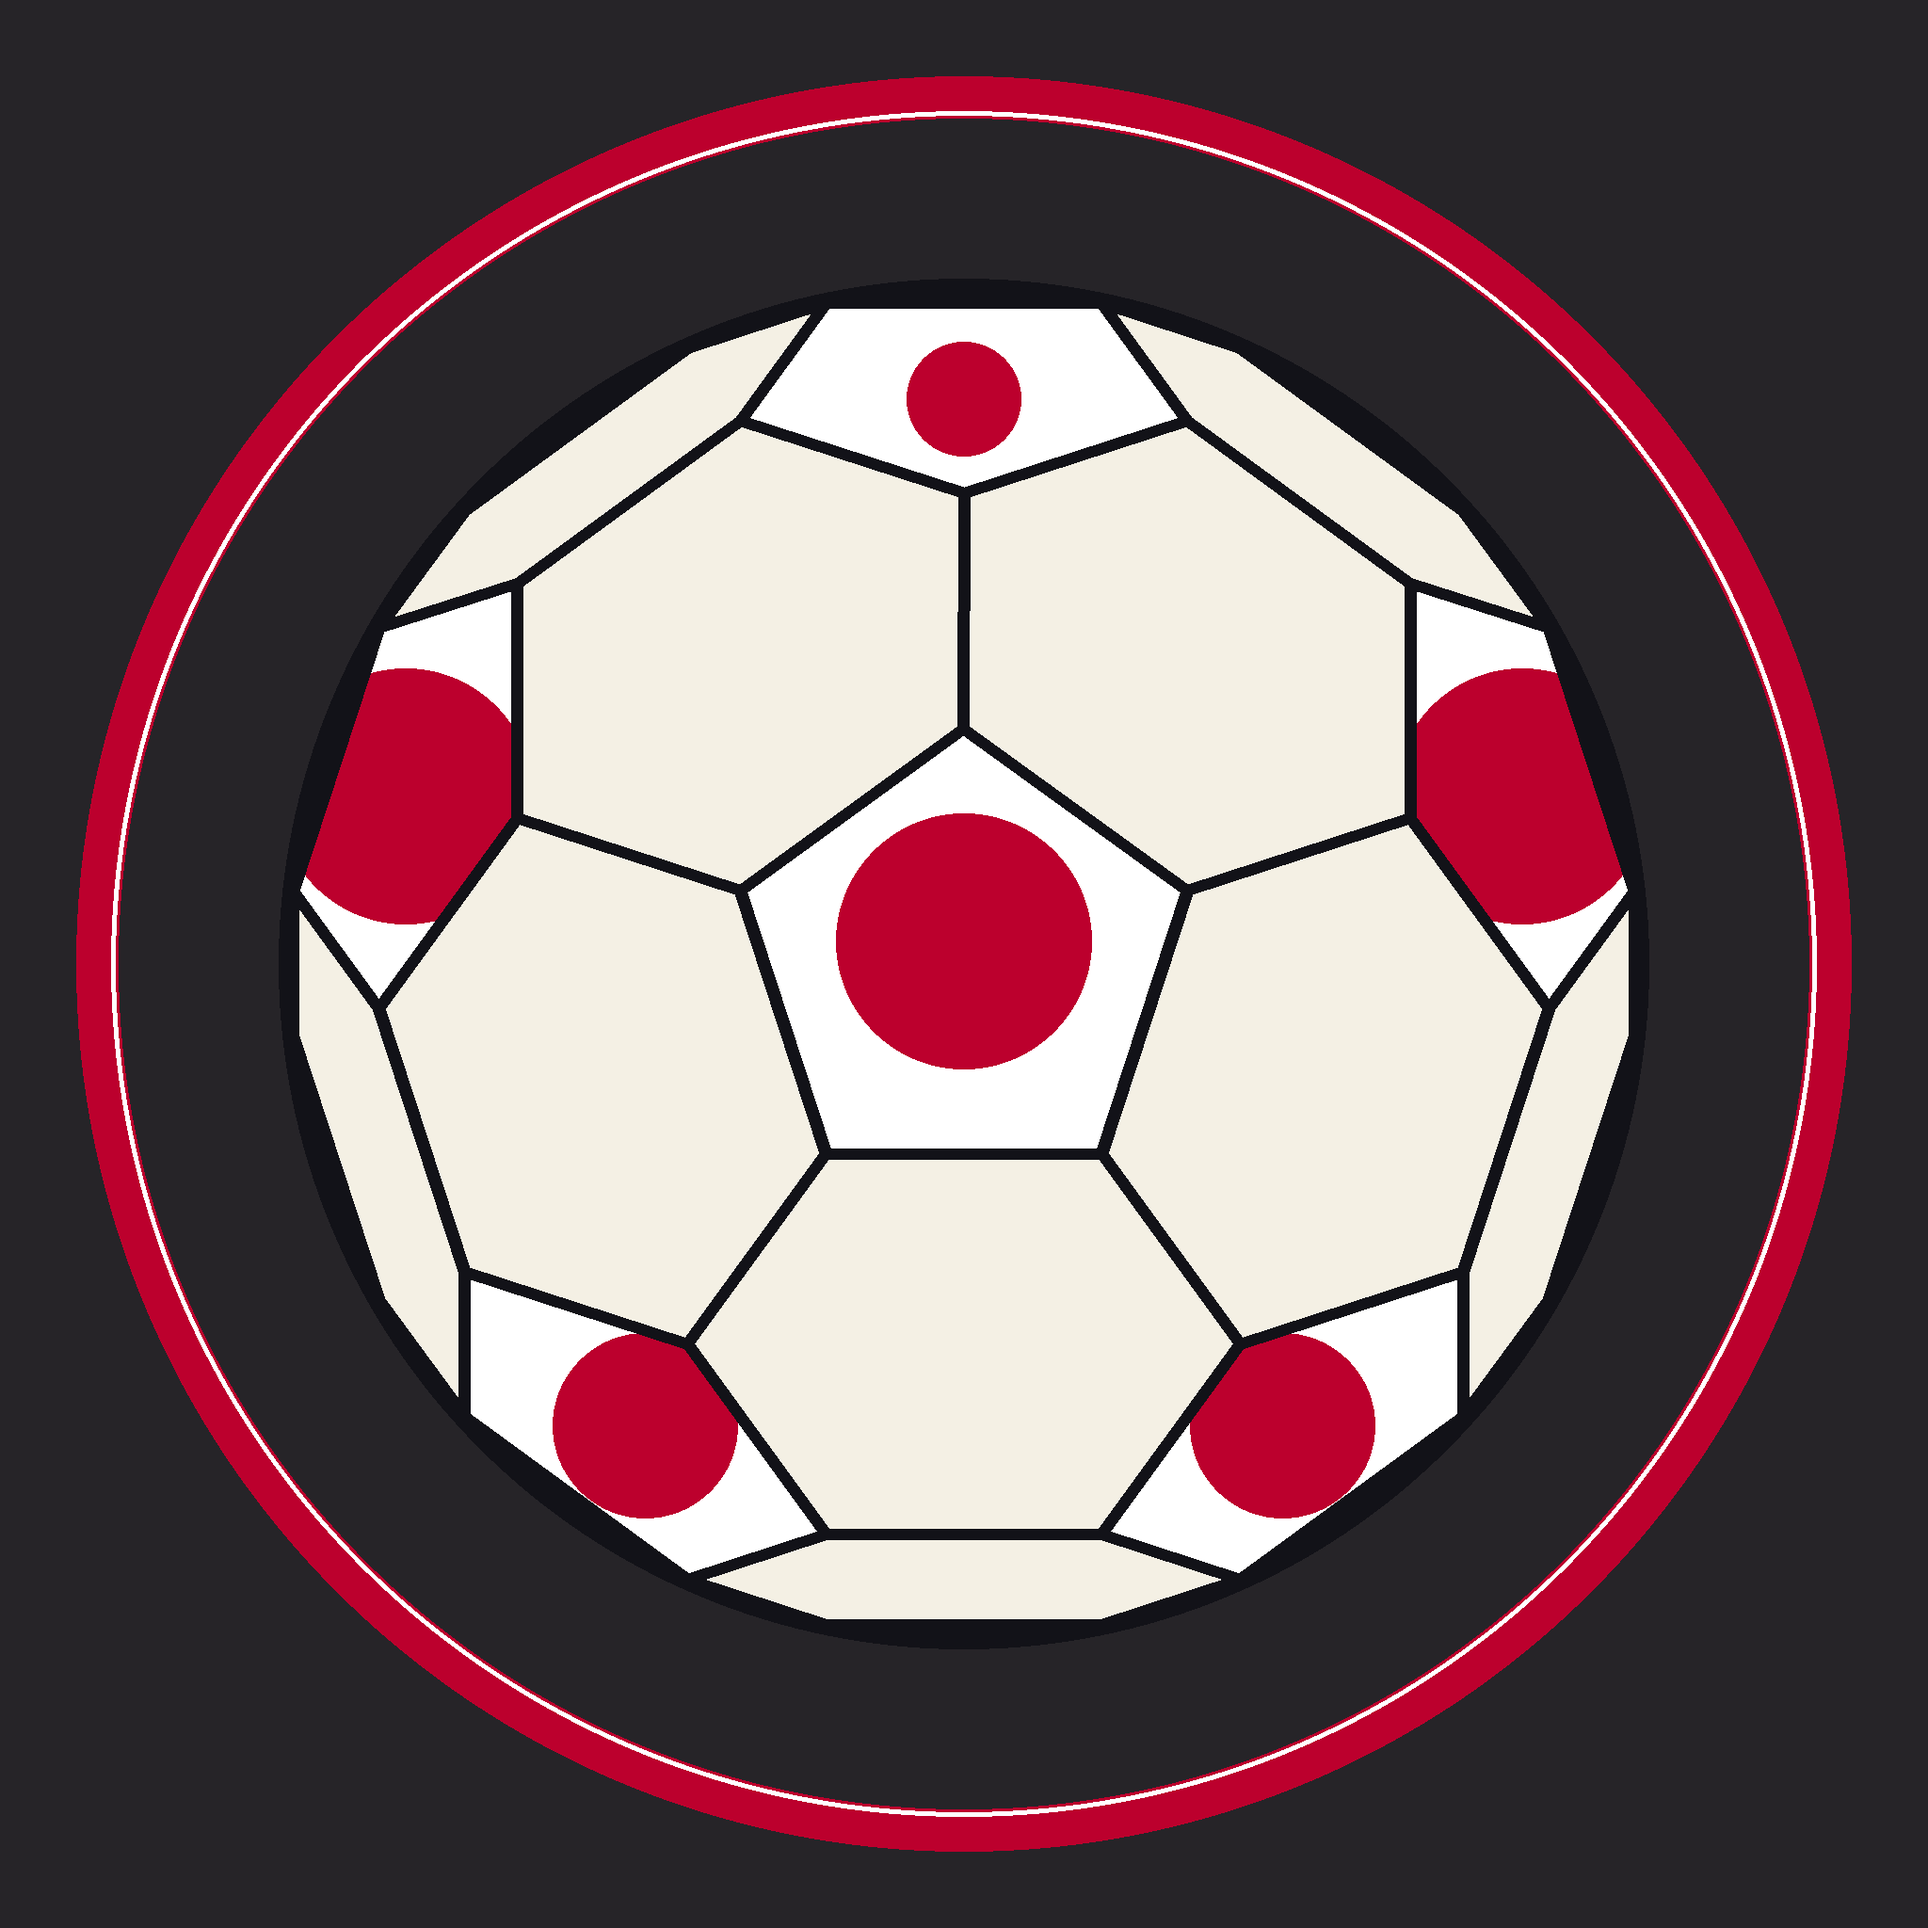
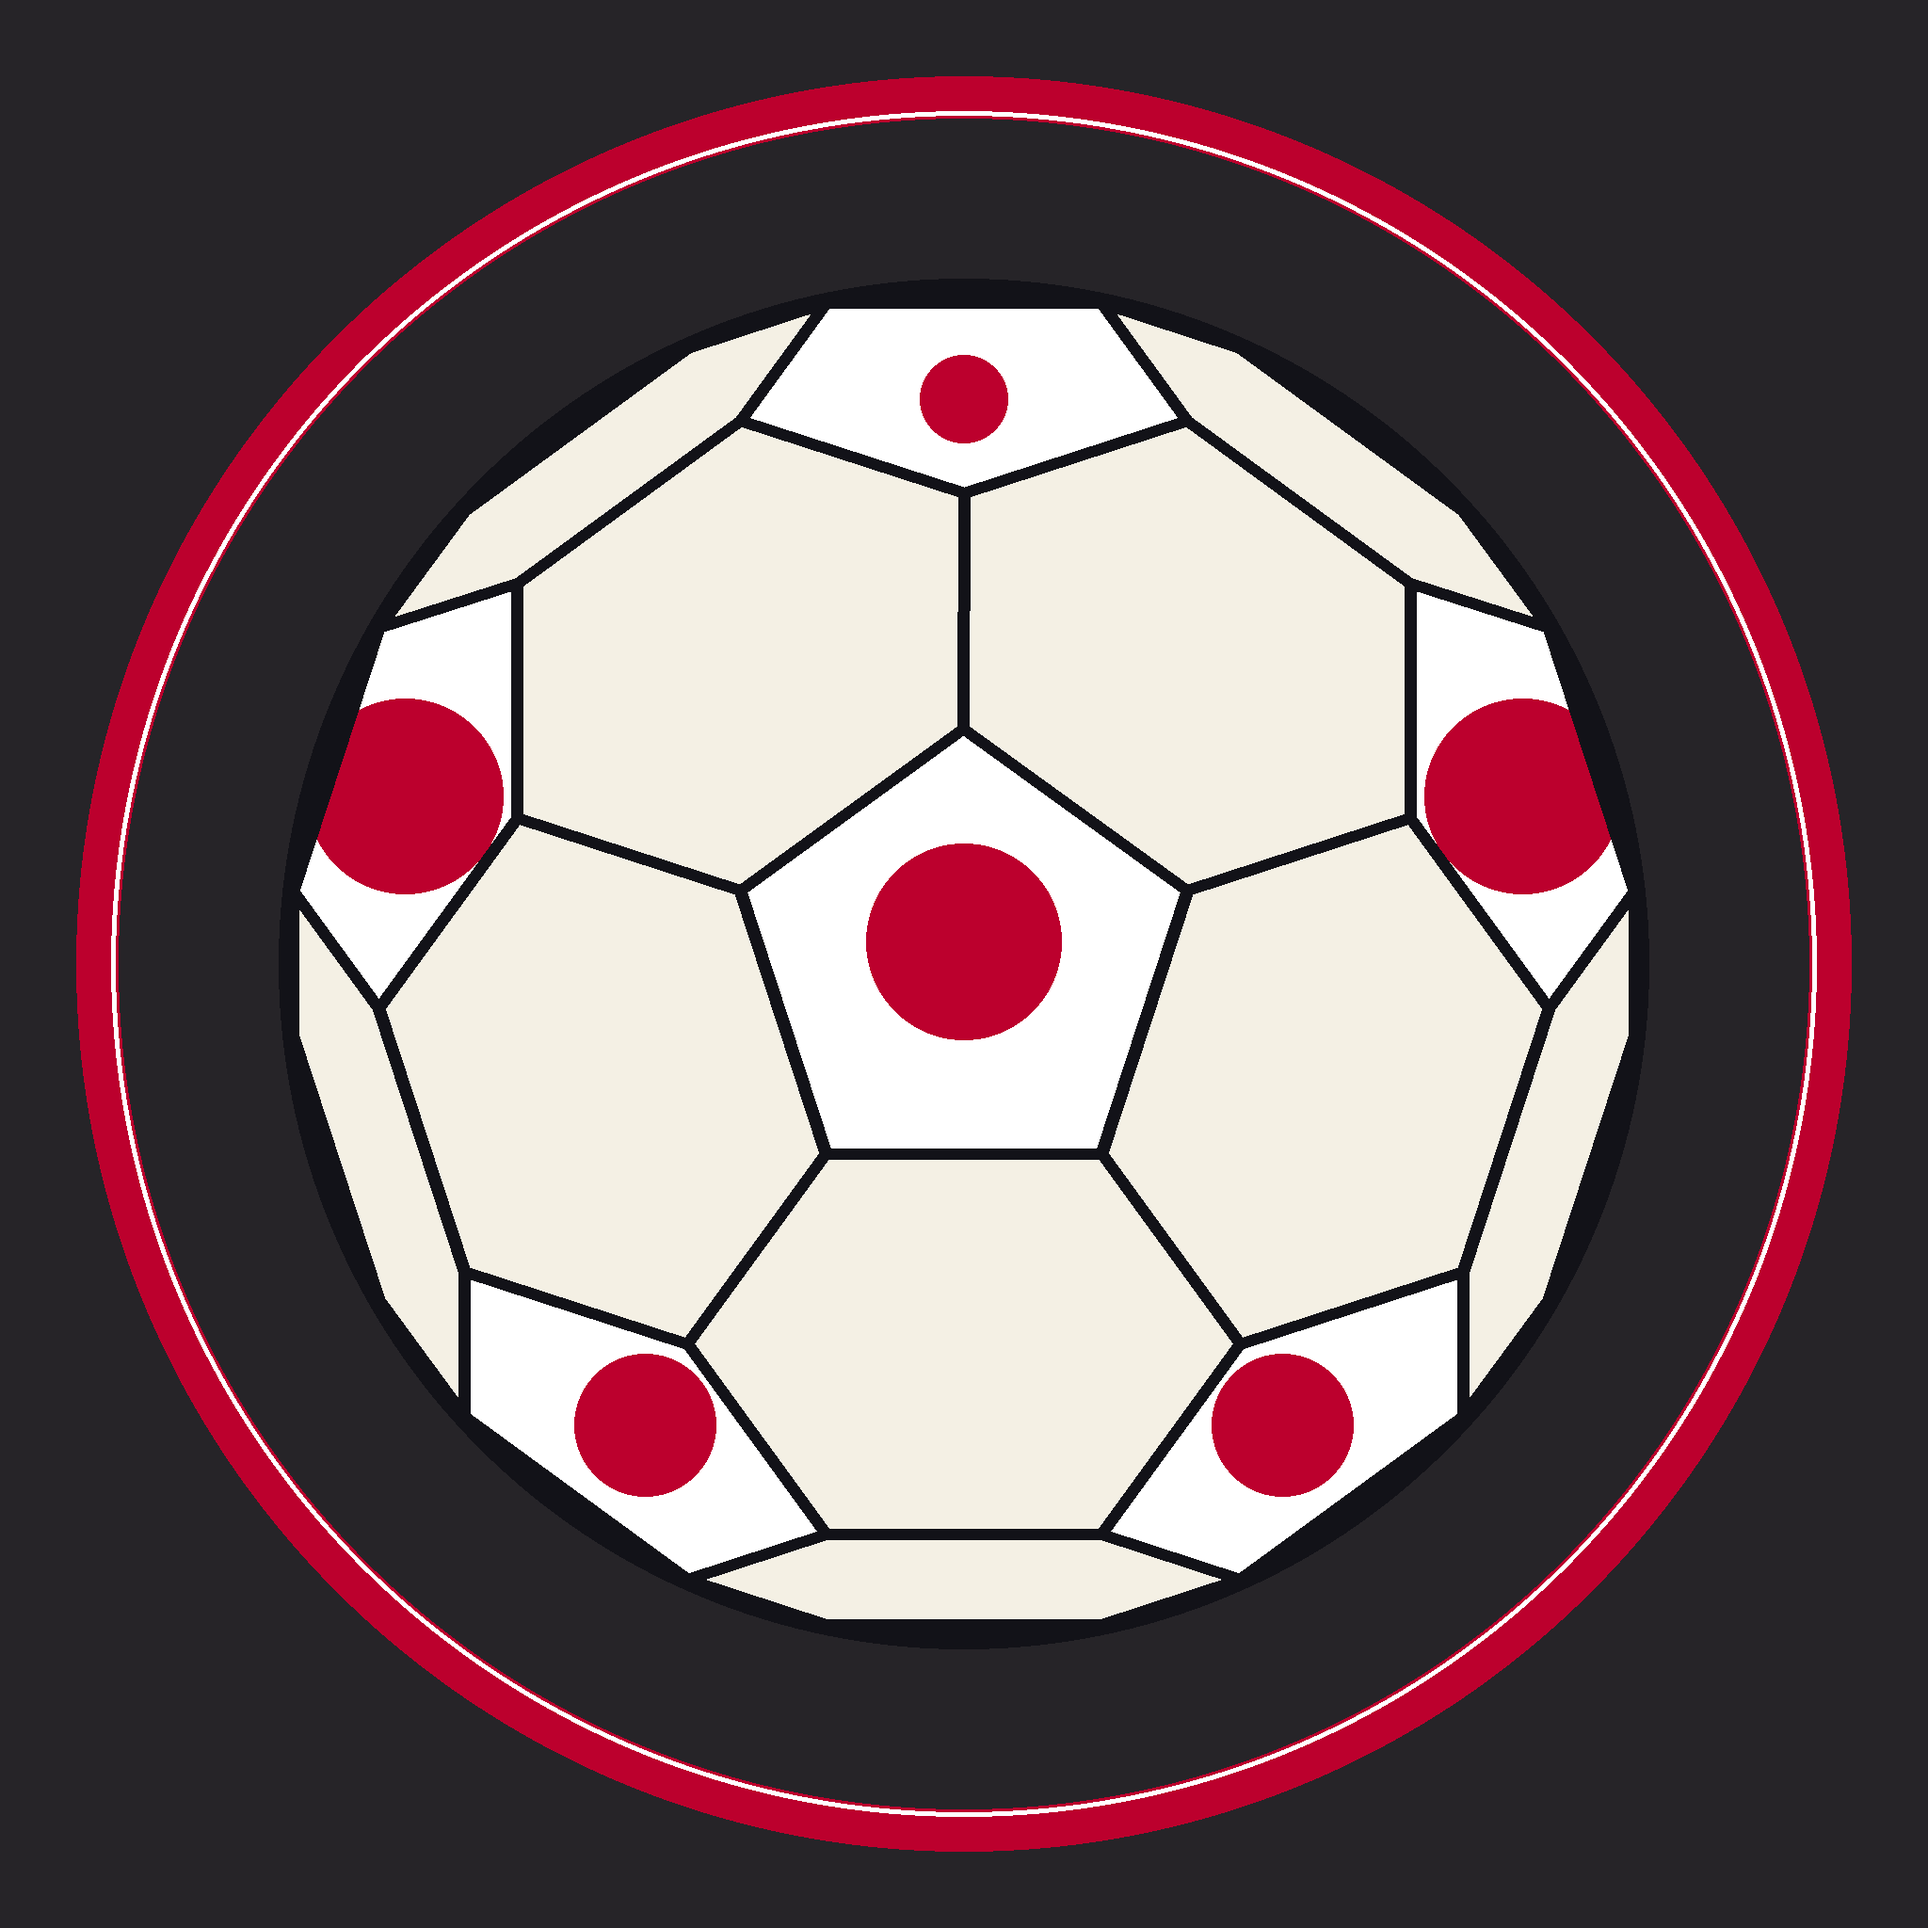
fix: disque japonais réduit (0.23h) — marge blanche généreuse
https://claude.ai/code/session_011hU6yuR4dGRtyXL7mZFdwg

diff --git a/scripts/render_telstar_seed.py b/scripts/render_telstar_seed.py
@@ -267,10 +267,11 @@ def flag_portugal(td, x0, y0, x1, y1):
 
 
 def flag_japan(td, x0, y0, x1, y1):
-    """Disque rouge cramoisi centré sur fond blanc pur (diamètre 3/5 hauteur)."""
+    """Disque rouge compact centré, large marge blanche tout autour
+    (réduit volontairement : FLUX tend à gonfler les disques)."""
     td.rectangle([x0, y0, x1, y1], fill=(255, 255, 255))
     cx, cy = (x0 + x1) / 2, (y0 + y1) / 2
-    r = (y1 - y0) * 0.30
+    r = (y1 - y0) * 0.23
     td.ellipse([cx - r, cy - r, cx + r, cy + r], fill=(188, 0, 45))
 
 
